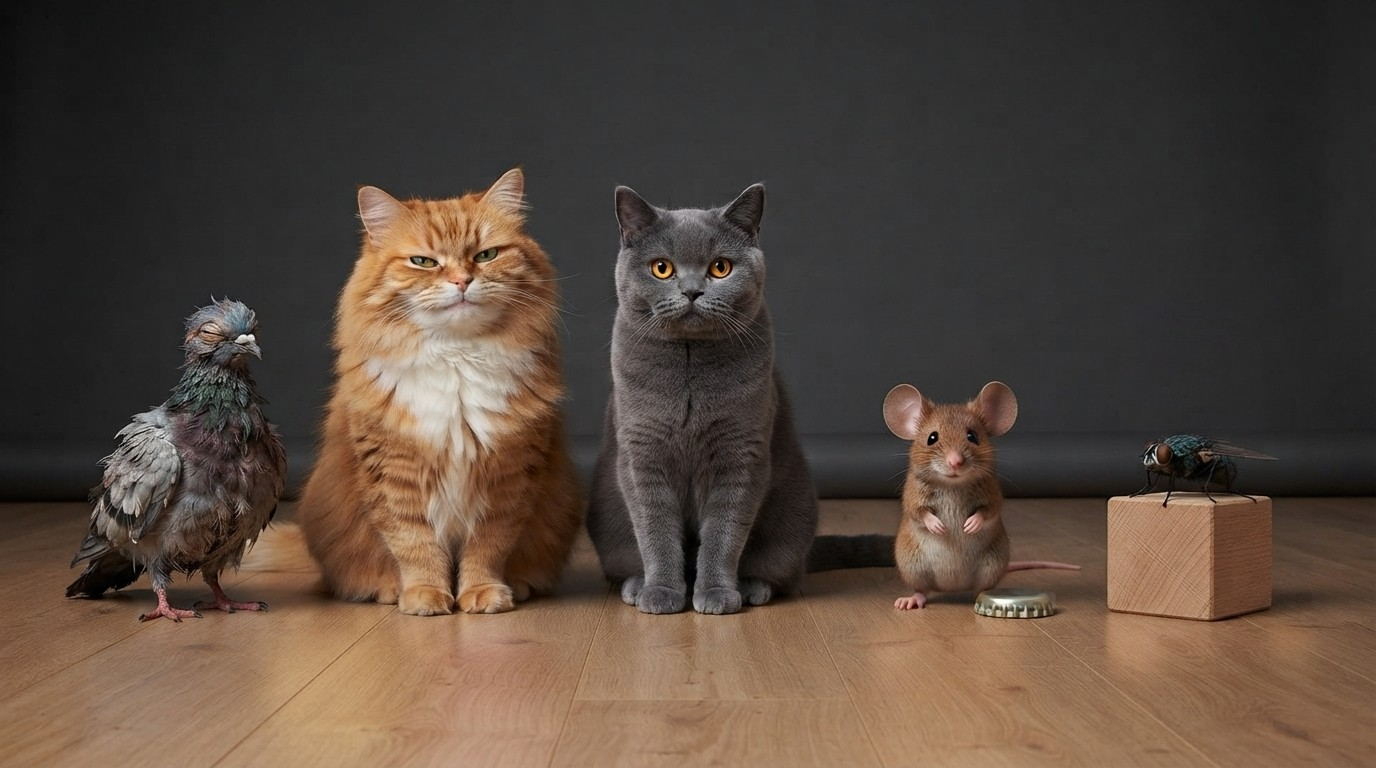
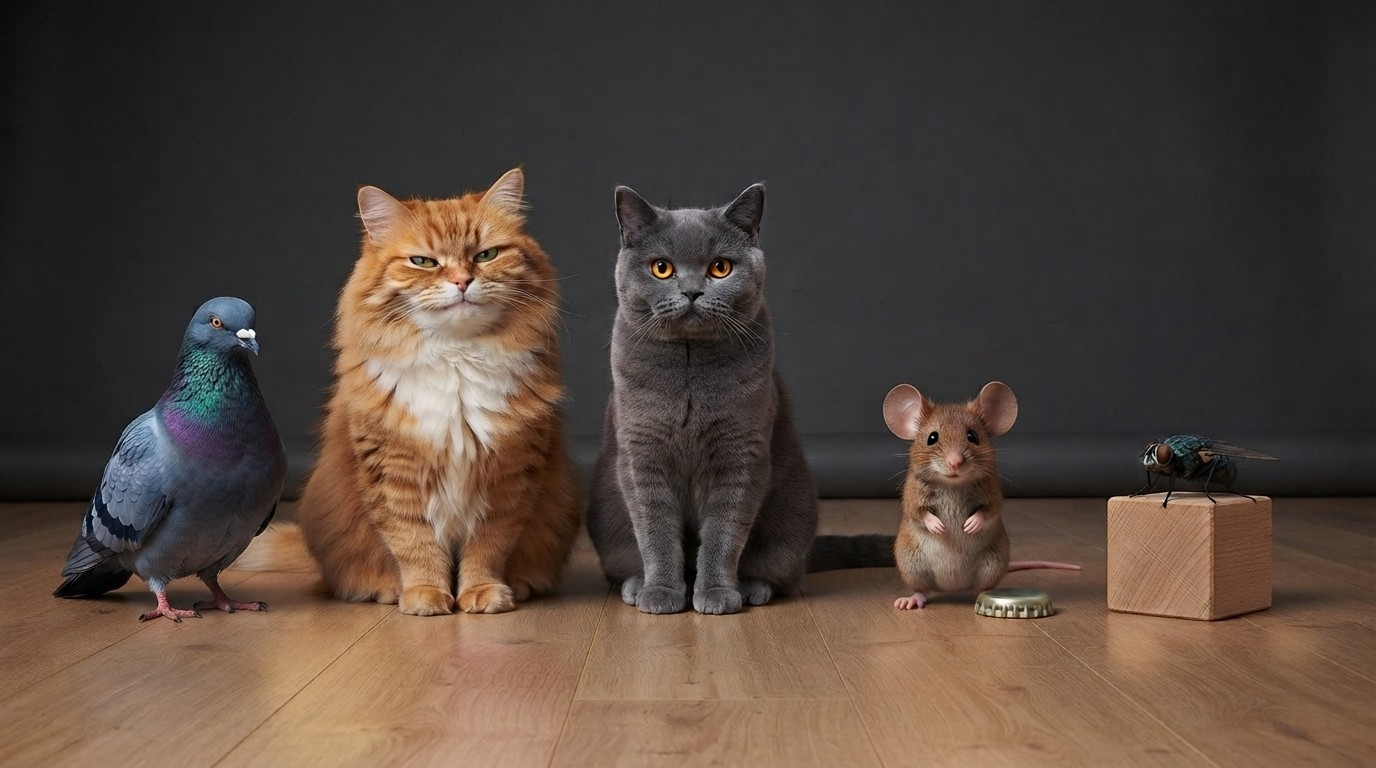
Nieuwe castfoto van de straat met een gezondere Gerrit de Duif
Claude-Session: https://claude.ai/code/session_0123oqNM6CTANJdbukSW6oWF

Changed region(s): [[0.0312, 0.375, 0.2188, 0.7812], [0.2812, 0.375, 0.3125, 0.4062]]

diff --git a/series/rookie/PERSONAGES.md b/series/rookie/PERSONAGES.md
@@ -35,12 +35,12 @@ Terugkerende cast. Niet iedereen zit in elke aflevering. **Er doen nooit mensen 
 
 ### Stap 2: voorstellingsbericht (nieuw Gemini-gesprek, met alle foto's)
 
-> Ik ga je vragen om scènes te maken voor een interactieve politieserie met speelgoed en dieren. Gebruik mijn foto's alleen als referentie voor het uiterlijk van de personages, kopieer of knip de foto's nooit uit. De vaste cast: 1) Marcel: grijze Britse korthaar, ronde brede kop, bolle wangen, dicht blauwgrijs vachtje zonder strepen, kleine oren, diep oranje ogen. Hij is een jonge politieagent. 2) Sergeant Peperkoek: de peperkoeken-mannetje-knuffel van de foto, zijn mentor. 3) Ketchup: de ketchupfles-knuffel van de foto, forensisch expert, heel dramatisch. 4) Gerrit de Duif: een oude grijze stadsduif met verfomfaaide veren en één toegeknepen oog, de informant. De knuffels blijven altijd zachte knuffels met naden, nooit echt eten, en hebben geen armen of benen tenzij ze die op de foto hebben. Alles is fotorealistisch, als stills uit een live-action politieserie, gefilmd op kathoogte in een echte, gezellige Belgische woning. Nooit mensen in beeld. Zet nooit tekst, letters, titels of logo's in het beeld. Antwoord nu enkel met "oké".
+> Ik ga je vragen om scènes te maken voor een interactieve politieserie met speelgoed en dieren. Gebruik mijn foto's alleen als referentie voor het uiterlijk van de personages, kopieer of knip de foto's nooit uit. De vaste cast: 1) Marcel: grijze Britse korthaar, ronde brede kop, bolle wangen, dicht blauwgrijs vachtje zonder strepen, kleine oren, diep oranje ogen. Hij is een jonge politieagent. 2) Sergeant Peperkoek: de peperkoeken-mannetje-knuffel van de foto, zijn mentor. 3) Ketchup: de ketchupfles-knuffel van de foto, forensisch expert, heel dramatisch. 4) Gerrit de Duif: een stevige oude grijze stadsduif met glanzende groen-paarse halsveren, de informant. De knuffels blijven altijd zachte knuffels met naden, nooit echt eten, en hebben geen armen of benen tenzij ze die op de foto hebben. Alles is fotorealistisch, als stills uit een live-action politieserie, gefilmd op kathoogte in een echte, gezellige Belgische woning. Nooit mensen in beeld. Zet nooit tekst, letters, titels of logo's in het beeld. Antwoord nu enkel met "oké".
 
 ### Stap 3: de castfoto (het moodboard)
 
 ```
-Make a wide landscape image in 16:9 format: a cast photo for a police TV series, like a promotional group shot. From left to right, all standing side by side on a wooden floor in front of a plain dark grey backdrop, each clearly visible and not overlapping: Gerrit de Duif, an old grey city pigeon with ruffled feathers and one squinting eye, Ketchup, the soft red plush ketchup bottle standing on its striped cap with a cute kawaii face, Marcel the grey British Shorthair sitting upright in the middle with a tiny navy police cap, Sergeant Peperkoek, the light-brown gingerbread man plush with a green bow tie and two red buttons, and then three new characters: Rosse Roger, a big fluffy ginger tomcat with green eyes and a smug face; Pieter de Muis, a small brown mouse with big ears standing on his hind legs; and De Vlieg, a common housefly sitting on a small wooden block so she is visible. Even soft studio light, sharp focus on everyone. A real photograph, not digital art. No people, no text, no letters.
+Make a wide landscape image in 16:9 format: a cast photo for a police TV series, like a promotional group shot. From left to right, all standing side by side on a wooden floor in front of a plain dark grey backdrop, each clearly visible and not overlapping: Gerrit de Duif, a sturdy old grey city pigeon with glossy green and purple neck feathers, Ketchup, the soft red plush ketchup bottle standing on its striped cap with a cute kawaii face, Marcel the grey British Shorthair sitting upright in the middle with a tiny navy police cap, Sergeant Peperkoek, the light-brown gingerbread man plush with a green bow tie and two red buttons, and then three new characters: Rosse Roger, a big fluffy ginger tomcat with green eyes and a smug face; Pieter de Muis, a small brown mouse with big ears standing on his hind legs; and De Vlieg, a common housefly sitting on a small wooden block so she is visible. Even soft studio light, sharp focus on everyone. A real photograph, not digital art. No people, no text, no letters.
 ```
 
 Bewaar dit beeld als **`series/rookie/cast.jpg`** en voeg het bij elke scène toe als referentie. Lijkt een personage niet, vraag dan: "Maak de castfoto opnieuw, maar houd [naam] exact zoals op mijn foto."

diff --git a/series/rookie/ep1/PROMPTS.md b/series/rookie/ep1/PROMPTS.md
@@ -38,7 +38,7 @@ _Marcel zegt:_ De vensterbank is een plaats delict. Waar ooit het kussentje lag,
 ## [ ] s05a.jpg
 
 ```
-Characters: Marcel, Gerrit de Duif. A window with its top pane tilted open. Outside on the gutter sits Gerrit de Duif, an old grey city pigeon with ruffled feathers and one squinting eye, like a shady informant in a noir film. Inside on the windowsill Marcel slides a breadcrumb towards him. Grey overcast light, moody noir atmosphere. Same cast as the reference sheet. A real photograph, like a still from a live-action police TV drama shot at cat height in a real cosy Belgian home, natural light, shallow depth of field, subtle film grain, 16:9 landscape. The toys are soft plush toys with stitched seams, not real food. Not a painting, not digital art, not CGI. No people, no text, no letters.
+Characters: Marcel, Gerrit de Duif. A window with its top pane tilted open. Outside on the gutter sits Gerrit de Duif, a sturdy old grey city pigeon with glossy green and purple neck feathers, like a shady informant in a noir film. Inside on the windowsill Marcel slides a breadcrumb towards him. Grey overcast light, moody noir atmosphere. Same cast as the reference sheet. A real photograph, like a still from a live-action police TV drama shot at cat height in a real cosy Belgian home, natural light, shallow depth of field, subtle film grain, 16:9 landscape. The toys are soft plush toys with stitched seams, not real food. Not a painting, not digital art, not CGI. No people, no text, no letters.
 ```
 
 _Marcel zegt:_ Op de dakgoot boven het raam woont Gerrit de Duif, een oude stadsduif die alles ziet en niets gratis vertelt. Hij heeft meer van deze straat gezien dan de brievenbus, en hij praat alleen in raadsels, het liefst in ruil voor een broodkruim. Ik schuif hem een kruimel toe door het kiepraam. Hij pikt, kijkt me met één oog aan en koert dat er vannacht een vuur door het kattenluik kwam, toen de maan het hoogst stond.
